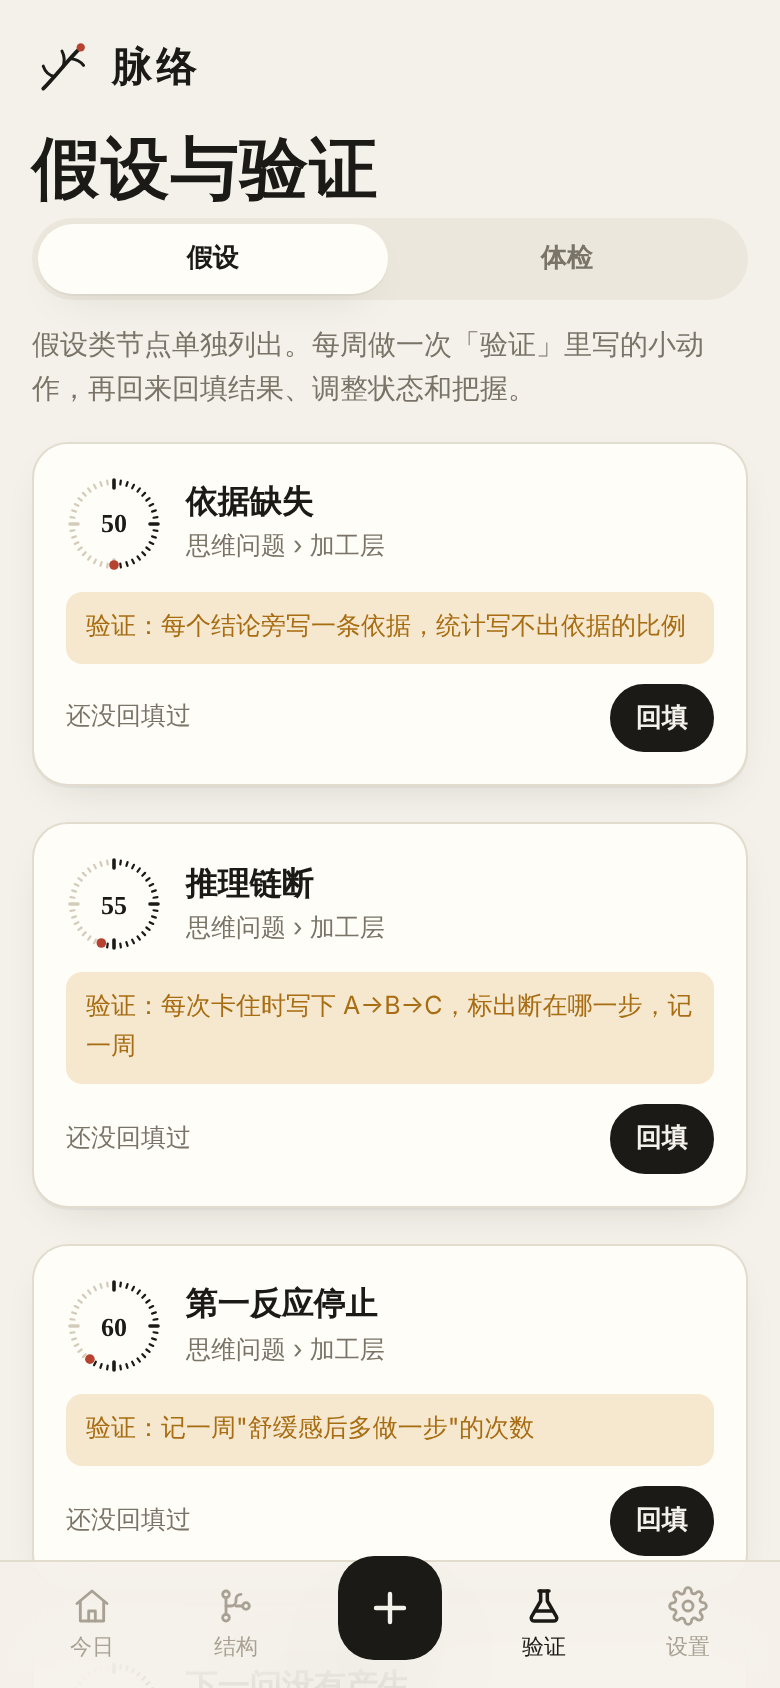
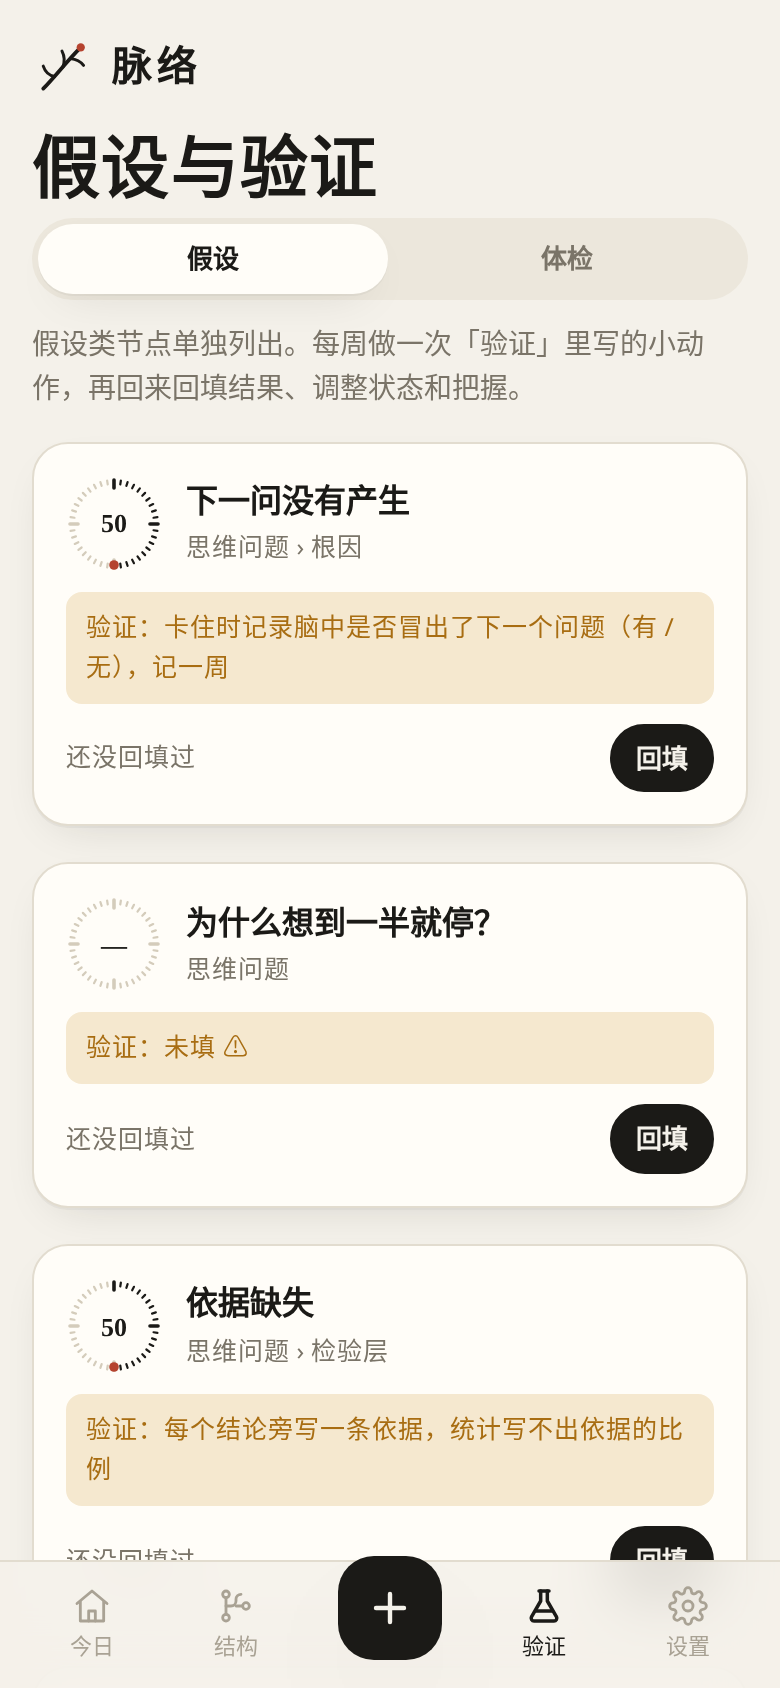
脉络 V2 T01: 用问论规链条替代层级视图

diff --git a/mailuo/www/js/app.js b/mailuo/www/js/app.js
@@ -1,5 +1,5 @@
 import { h, icon, brandMark, veinArt, dial, toast, sheet, confirmSheet, waiting, glyph, nodeRow, relTag, swipeable } from './ui.js';
-import { Store, TYPES, STATUSES, blankNode, normalizeType, normalizeSentinels, REL_TYPES, REL_HINT, REL_VIEW, findDuplicate, findAnalogies, today, parentOf } from './model.js';
+import { Store, TYPES, STATUSES, blankNode, normalizeType, normalizeSentinels, REL_TYPES, REL_HINT, REL_VIEW, findDuplicate, findAnalogies, today, MOUNT_RULES } from './model.js';
 import { openVault, IdbVault, FsVault, CapVault, exportZip, importZip, listSnapshots, snapshot, dailySnapshot, restoreSnapshot } from './vault.js';
 import { getConfig, setConfig, usage, callModel, PROMPT_SPLIT, splitUserMessage, extractJson, normalizeSplit, PROMPT_THINK, parseAnswer, PRESETS, estimateTokens, PROMPT_KEYWORDS, keywordsUserMessage } from './llm.js';
 import { buildPack, MODE_QUESTIONS, libraryTokens, systemOutline } from './pack.js';
@@ -235,7 +235,7 @@ function viewTree(_, params) {
   localStorage.setItem('mailuo.sys', session.sys);
   const out = [topbarBrand(
     h('button', { class: 'iconbtn', onclick: searchSheet, 'aria-label': '搜索全部体系' }, icon('search')),
-    h('button', { class: 'iconbtn', onclick: () => newNodeSheet(session.sys, ''), 'aria-label': '新建节点' }, icon('plus')))];
+    h('button', { class: 'iconbtn', onclick: () => newNodeSheet(session.sys, '', '问'), 'aria-label': '新建节点' }, icon('plus')))];
   out.push(h('h1', { class: 'display' }, '结构'));
   out.push(h('div', { class: 'sys-chips' },
     systems.map((s) => h('button', { class: 'sys-chip' + (s === session.sys ? ' on' : ''), onclick: () => { session.sys = s; route(); } }, s)),
@@ -257,7 +257,7 @@ function viewTree(_, params) {
       } }, icon('copy'), '复制体系大纲')),
     treeBox);
   draw();
-  out.push(h('p', { class: 'small muted center mt2' }, '按住节点左侧的 ⋮⋮ 拖到另一个层级，即可改父级。'));
+  out.push(h('p', { class: 'small muted center mt2' }, '按住 ⋮⋮ 拖到另一张卡片下；拖到「未挂载」可取消挂载。'));
   return out;
 }
 
@@ -269,38 +269,53 @@ function toggleClosed(key) {
 }
 
 function buildTree(system, query) {
-  const sys = store.systems.get(system);
-  const nodes = store.list(system).filter((n) => !query || n.title.includes(query) || n.claim.includes(query) || n.keywords.some((k) => k.includes(query)));
-  const closed = closedSet();
-  const levelBlock = (path, depth) => {
-    const name = path ? path.split('/').at(-1) : system;
-    const children = sys.levels.filter((l) => parentOf(l) === path);
-    const own = nodes.filter((n) => n.parent === path);
-    const count = nodes.filter((n) => n.parent === path || (path && n.parent.startsWith(path + '/'))).length + (path ? 0 : 0);
-    const key = system + ':' + path;
-    const isClosed = !query && closed.has(key);
-    const head = h('div', { class: 'lv-head', 'data-drop': system + '|' + path, onclick: (e) => { if (e.target.closest('.lv-tools')) return; toggleClosed(key); el.classList.toggle('closed'); } },
-      icon('chev', 'chev'), h('span', {}, path ? name : '体系根'), h('span', { class: 'cnt' }, path ? count : own.length),
-      h('div', { class: 'lv-tools' },
-        depth < 3 ? h('button', { class: 'iconbtn', title: '新建子层级', 'aria-label': '新建子层级', onclick: () => newLevelSheet(system, path) }, icon('layers')) : null,
-        h('button', { class: 'iconbtn', title: '在此新建节点', 'aria-label': '在此新建节点', onclick: () => newNodeSheet(system, path) }, icon('plus')),
-        path ? h('button', { class: 'iconbtn', title: '删除层级', 'aria-label': '删除层级', onclick: async () => {
-          if (!(await confirmSheet('删除层级', '删除「' + name + '」及其子层级？（层级下必须没有节点）', '删除', true))) return;
-          try { await store.removeLevel(system, path); route(); } catch (e) { toast(e.message); }
-        } }, icon('trash')) : null));
-    const body = h('div', { class: 'lv-body' },
-      own.map((n) => draggableRow(n)),
-      children.map((c) => levelBlock(c, depth + 1)));
-    if (!own.length && !children.length) body.append(h('div', { class: 'empty-rel' }, '（空）'));
-    const el = h('div', { class: 'lv' + (isClosed ? ' closed' : '') }, head, body);
+  const nodes = store.list(system), closed = closedSet(), seen = new Set();
+  const matches = (n) => !query || [n, ...store.descendants(n.id)].some((x) =>
+    [x.title, x.claim, ...x.keywords].some((t) => t.includes(query)));
+  const branch = (n) => {
+    if (seen.has(n.id) || !matches(n)) return null;
+    seen.add(n.id);
+    const children = store.children(n.id).filter((x) => x.system === system);
+    const key = 'node:' + n.id;
+    const el = h('div', { class: 'chain-node' + (!query && closed.has(key) ? ' closed' : '') });
+    const row = draggableRow(n);
+    if (children.length) row.prepend(h('button', { class: 'iconbtn chain-toggle', 'aria-label': '折叠或展开 ' + n.title, onclick: (e) => {
+      e.stopPropagation(); toggleClosed(key); el.classList.toggle('closed');
+    } }, icon('chev')));
+    if (n.type !== '规') row.append(h('button', { class: 'iconbtn', 'aria-label': '新建下级 ' + n.title, onclick: (e) => {
+      e.stopPropagation(); childNodeSheet(n);
+    } }, icon('plus')));
+    el.append(row);
+    // 折叠只隐藏，仍绘制下级，避免隐藏的节点被当作遗漏节点重新列出。
+    if (children.length) el.append(h('div', { class: 'chain-body' }, children.map(branch)));
     return el;
   };
-  return levelBlock('', 0);
+  const tree = h('div', { class: 'chain-tree' }, store.chainRoots(system).map(branch));
+  const loose = store.unmounted(system).filter((n) => !seen.has(n.id));
+  // 外部导入的跨体系挂载或环也保持可见，交给体检和重新挂载修复。
+  const rest = [...loose, ...nodes.filter((n) => !seen.has(n.id) && !loose.includes(n))];
+  if (rest.length) {
+    const body = h('div', { class: 'chain-loose' }, rest.map(branch));
+    if (body.childElementCount) tree.append(h('h2', { class: 'lv-head', 'data-drop': 'unmount' }, '未挂载 ', h('span', { class: 'cnt' }, rest.filter((n) => !n.under || !store.nodes.has(n.under)).length)), body);
+  }
+  return tree;
+}
+
+function childNodeSheet(n) {
+  const types = TYPES.filter((t) => MOUNT_RULES[t].includes(n.type));
+  if (!types.length) return;
+  sheet('挂一个下级', (box, close) => box.append(h('div', { class: 'btn-row' }, types.map((type) =>
+    h('button', { class: 'btn grow', onclick: () => { close(); newNodeSheet(n.system, n.id, type); } }, '新建' + type)))));
 }
 
 function draggableRow(n) {
-  const grip = h('div', { class: 'grip', 'aria-label': '拖动改父级' }, icon('grip'));
-  const row = nodeRow(n, (e) => { if (!e.target.closest('.grip')) go('#/node/' + n.id); });
+  const grip = h('div', { class: 'grip', 'aria-label': '拖动改挂载' }, icon('grip'));
+  const row = nodeRow(n, (e) => { if (!e.target.closest('button,.grip')) go('#/node/' + n.id); }, n.type === '问' ? h('span') : null);
+  row.dataset.drop = 'node:' + n.id;
+  if (n.type === '规') row.classList.add('rule-row');
+  if (n.type === '规' && n.paused) {
+    row.classList.add('paused'); row.querySelector('.title').append(h('span', { class: 'pill outline' }, '暂停'));
+  }
   row.prepend(grip);
   grip.addEventListener('pointerdown', (e) => startDrag(e, n, row));
   return row;
@@ -323,17 +338,18 @@ function startDrag(e, n, row) {
     if (t !== target) { target?.classList.remove('drop-on'); target = t; target?.classList.add('drop-on'); }
     if (ev.clientY < 60) window.scrollBy(0, -12); else if (ev.clientY > innerHeight - 100) window.scrollBy(0, 12);
   };
-  const up = async () => {
+  const up = async (ev) => {
     window.removeEventListener('pointermove', move);
     window.removeEventListener('pointerup', up);
     window.removeEventListener('pointercancel', up);
     ghost.remove(); row.classList.remove('dragging'); target?.classList.remove('drop-on');
-    if (!target) return;
-    const [sys, path] = target.dataset.drop.split('|');
-    if (sys === n.system && path === n.parent) return;
-    await store.moveNode(n.id, sys, path);
-    toast('已移到「' + (path ? path.split('/').join(' › ') : sys) + '」');
-    route();
+    if (!target || ev.type === 'pointercancel') return;
+    const parent = target.dataset.drop === 'unmount' ? '' : target.dataset.drop.slice(5);
+    const err = store.canMount(n.id, parent);
+    if (err) return toast(err);
+    if (parent === n.under) return;
+    try { await store.mount(n.id, parent); toast(parent ? '已更新挂载' : '已取消挂载'); route(true); }
+    catch (e) { toast(e.message); }
   };
   move(e);
   window.addEventListener('pointermove', move);
@@ -353,28 +369,7 @@ function newSystemSheet() {
   });
 }
 
-function newLevelSheet(system, parent) {
-  sheet(parent ? '在「' + parent.split('/').at(-1) + '」下新建层级' : '新建层级', (box, close) => {
-    const inp = h('input', { class: 'input', placeholder: '例如：加工层' });
-    box.append(h('div', { class: 'field' }, h('label', {}, '层级名称'), inp),
-      h('p', { class: 'small muted' }, '层级最多 3 层。'),
-      h('button', { class: 'btn primary block', onclick: async () => {
-        const name = inp.value.trim().replace(/\//g, '·');
-        if (!name) return;
-        try { await store.addLevel(system, parent ? parent + '/' + name : name); close(); route(); } catch (e) { toast(e.message); }
-      } }, '创建'));
-  });
-}
-
 // ---------------- 节点编辑 ----------------
-function levelOptions(system, cur) {
-  const sys = store.systems.get(system);
-  const sel = h('select', { class: 'input' }, h('option', { value: '' }, '（体系根）'),
-    (sys?.levels || []).map((l) => h('option', { value: l, selected: l === cur }, '　'.repeat(l.split('/').length - 1) + l.split('/').at(-1))));
-  sel.value = cur || '';
-  return sel;
-}
-
 function nodeForm(n, { systemEditable = true } = {}) {
   const f = {};
   f.title = h('input', { class: 'input', value: n.title || '', placeholder: '短名' });
@@ -388,8 +383,7 @@ function nodeForm(n, { systemEditable = true } = {}) {
   f.verify = h('input', { class: 'input', value: n.verify || '', placeholder: '一句话，假设类必填' });
   f.source = h('input', { class: 'input', value: n.source || '', placeholder: '自己 / AI 名称 / 资料' });
   f.system = h('select', { class: 'input', disabled: !systemEditable }, [...store.systems.keys()].map((s) => h('option', { value: s, selected: s === n.system }, s)));
-  const parentWrap = h('div', {}, levelOptions(n.system, n.parent));
-  f.system.addEventListener('change', () => { parentWrap.innerHTML = ''; parentWrap.append(levelOptions(f.system.value, '')); });
+  const parentWrap = h('div', { class: 'small muted' }, '挂在：' + (store.nodes.get(n.under)?.title || '不挂载'));
   const el = h('div', {},
     h('div', { class: 'field' }, h('label', {}, '标题'), f.title),
     h('div', { class: 'field' }, h('label', {}, '结论'), f.claim),
@@ -397,7 +391,7 @@ function nodeForm(n, { systemEditable = true } = {}) {
     h('div', { class: 'field' }, h('label', {}, '激活词'), f.keywords),
     h('div', { class: 'field' }, h('label', {}, '把握 ', confLabel), f.confidence),
     h('div', { class: 'field' }, h('label', {}, '验证方式'), f.verify),
-    h('div', { class: 'row' }, h('div', { class: 'field' }, h('label', {}, '体系'), f.system), h('div', { class: 'field' }, h('label', {}, '上级层级'), parentWrap)),
+    h('div', { class: 'row' }, h('div', { class: 'field' }, h('label', {}, '体系'), f.system), h('div', { class: 'field' }, h('label', {}, '挂载'), parentWrap)),
     h('div', { class: 'field' }, h('label', {}, '说明'), f.note),
     h('div', { class: 'field' }, h('label', {}, '来源'), f.source));
   const read = () => ({
@@ -405,7 +399,7 @@ function nodeForm(n, { systemEditable = true } = {}) {
     type: f.type.value, status: f.status.value,
     keywords: f.keywords.value.split(/[,，、;；\s]+/).map((s) => s.trim()).filter(Boolean).slice(0, 5),
     confidence: +f.confidence.value, verify: f.verify.value.trim(), source: f.source.value.trim(),
-    system: f.system.value, parent: parentWrap.querySelector('select').value,
+    system: f.system.value, parent: n.parent || '', under: n.under || '',
   });
   return { el, read };
 }
@@ -413,14 +407,14 @@ function nodeForm(n, { systemEditable = true } = {}) {
 function validate(d) {
   if (!d.title) return '标题不能为空';
   if (!d.claim) return '结论不能为空';
-  if (d.status === '假设' && !d.verify) return '假设类节点必须写验证方式';
+  if (d.type === '论' && d.status === '假设' && !d.verify) return '假设类节点必须写验证方式';
   return '';
 }
 
-function newNodeSheet(system, parent) {
+function newNodeSheet(system, under = '', type = '论') {
   if (!system) return newSystemSheet();
   sheet('新建节点', (box, close) => {
-    const form = nodeForm({ system, parent, type: '论', status: '假设', confidence: 50, source: '自己' });
+    const form = nodeForm(blankNode({ system, under, type, confidence: type === '问' ? null : 50 }));
     box.append(form.el, h('button', { class: 'btn primary block', onclick: async () => {
       const d = form.read();
       const err = validate(d);

diff --git a/mailuo/www/js/model.js b/mailuo/www/js/model.js
@@ -277,7 +277,7 @@ export class Store {
 
   // ---- 写入 ----
   filePath(n) {
-    return [safeName(n.system), ...(n.parent ? n.parent.split('/').map(safeName) : []), safeName(n.title) + '.md'].join('/');
+    return [safeName(n.system), safeName(n.title) + '.md'].join('/');
   }
 
   async saveNode(n, { touch = true } = {}) {
@@ -289,13 +289,12 @@ export class Store {
     const oldSystem = n._savedSystem;
     const oldPath = n.path;
     let path = this.filePath(n);
+    if (path === safeName(n.system) + "/" + safeName(n.system) + ".md") path = path.replace(/\.md$/, " (" + n.id + ").md");
     // 同名文件（不同节点）时加 id 避免覆盖
     for (const o of this.nodes.values()) if (o.id !== n.id && o.path === path) path = path.replace(/\.md$/, ' (' + n.id + ').md');
     n.path = path;
     this.nodes.set(n.id, n);
     const s = this.ensureSystemSync(n.system);
-    let sysDirty = !(await this.vault.read(s.path));
-    if (n.parent) for (const lv of prefixes(n.parent)) if (!s.levels.includes(lv)) { s.levels.push(lv); sysDirty = true; }
     await this.vault.write(path, serializeNode(n, this));
     n._savedTitle = n.title;
     n._savedSystem = n.system;
@@ -308,9 +307,8 @@ export class Store {
         const src = this.nodes.get(l.from);
         if (src) await this.vault.write(src.path, serializeNode(src, this));
       }
-      sysDirty = true;
     }
-    if (sysDirty || !old) await this.saveSystem(s);
+    await this.saveSystem(s);
     this.emit();
     return n;
   }
@@ -444,19 +442,23 @@ export class Store {
 
   async saveSystem(s) {
     if (!s) return;
-    s.levels = [...new Set(s.levels)];
+    s.levels = [];
     const nodes = this.list(s.name);
     const lines = ['---', 'kind: system', 'name: ' + q(s.name), 'levels: ' + flowList(s.levels), 'created: ' + q(s.created || today()), '---'];
     lines.push(s.desc || '「' + s.name + '」知识体系。由脉络 App 维护，可在 Obsidian 中直接打开。');
     lines.push('', '## 结构');
-    const render = (parent, depth) => {
-      for (const n of nodes.filter((x) => x.parent === parent)) lines.push('  '.repeat(depth) + '- [[' + n.title + ']]');
-      for (const lv of s.levels.filter((l) => parentOf(l) === parent)) {
-        lines.push('  '.repeat(depth) + '- ' + lv.split('/').at(-1));
-        render(lv, depth + 1);
-      }
+    const seen = new Set();
+    const render = (n, depth) => {
+      if (seen.has(n.id)) return;
+      seen.add(n.id);
+      lines.push('  '.repeat(depth) + '- [' + n.type + '] [[' + n.title + ']]');
+      for (const child of this.children(n.id)) if (child.system === s.name) render(child, depth + 1);
     };
-    render('', 0);
+    for (const n of this.chainRoots(s.name)) render(n, 0);
+    if (nodes.some((n) => !seen.has(n.id))) {
+      lines.push('', '## 未挂载');
+      for (const n of nodes) if (!seen.has(n.id)) render(n, 0);
+    }
     s.path = safeName(s.name) + '/' + safeName(s.name) + '.md';
     await this.vault.write(s.path, lines.join('\n') + '\n');
   }

diff --git a/mailuo/www/js/pack.js b/mailuo/www/js/pack.js
@@ -125,20 +125,17 @@ export function libraryTokens(store) {
 
 // 体系大纲（Markdown），方便整体复制到聊天 App
 export function systemOutline(store, system) {
-  const sys = store.systems.get(system);
-  const lines = ['# ' + system];
-  const nodeLine = (n, depth) => {
+  const lines = ['# ' + system], seen = new Set();
+  const walk = (n, depth) => {
+    if (seen.has(n.id)) return;
+    seen.add(n.id);
     const rels = n.links.map((l) => l.type + '→' + (store.nodes.get(l.to)?.title || l.to)).join('，');
-    lines.push('  '.repeat(depth) + '- **' + n.title + '**（' + n.type + '·' + n.status + (n.confidence != null ? '·' + n.confidence + '%' : '') + '）：' + n.claim
+    lines.push('  '.repeat(depth) + '- **[' + n.type + (n.type !== '问' && n.confidence != null ? ' ' + n.confidence + '%' : '') + '] ' + n.title + '**：' + n.claim
       + (n.keywords.length ? ' 〔' + n.keywords.join('、') + '〕' : '') + (rels ? ' ｛' + rels + '｝' : ''));
+    for (const child of store.children(n.id)) if (child.system === system) walk(child, depth + 1);
   };
-  const walk = (parent, depth) => {
-    for (const n of store.list(system).filter((x) => x.parent === parent)) nodeLine(n, depth);
-    for (const lv of (sys?.levels || []).filter((l) => (l.lastIndexOf('/') < 0 ? '' : l.slice(0, l.lastIndexOf('/'))) === parent)) {
-      lines.push('  '.repeat(depth) + '- ' + lv.split('/').at(-1));
-      walk(lv, depth + 1);
-    }
-  };
-  walk('', 0);
+  store.chainRoots(system).forEach((n) => walk(n, 0));
+  const rest = store.list(system).filter((n) => !seen.has(n.id));
+  if (rest.length) { lines.push('', '## 未挂载'); rest.forEach((n) => walk(n, 0)); }
   return lines.join('\n');
 }

diff --git a/mailuo/www/css/app.css b/mailuo/www/css/app.css
@@ -416,3 +416,16 @@ details.manual > .btn.block { width: calc(100% - 32px); }
 .weekly .stat .s { font-size: 11.5px; color: var(--muted); margin-top: 4px; }
 .weekly .stat + .stat { border-left: 1px solid var(--line); }
 .link-cand input[type=radio] { width: 18px; height: 18px; accent-color: var(--ink); flex: none; }
+
+/* V2 挂载链条 */
+.chain-body { margin-left: 0; padding-left: 14px; border-left: 1px solid var(--line-2); }
+.chain-node { min-width: 0; }
+.chain-node.closed > .chain-body { display: none; }
+.chain-node.closed > .node-row .chain-toggle { transform: rotate(-90deg); }
+.chain-toggle { width: 22px; flex-shrink: 0; }
+.chain-tree .node-row { gap: 6px; padding: 10px 4px; }
+.chain-tree .node-row .body { min-width: 0; }
+.chain-tree .node-row .iconbtn { width: 24px; flex-shrink: 0; }
+.rule-row { border-left: 2px solid var(--accent); }
+.paused { opacity: .55; }
+.node-row .title .pill { margin-left: 6px; }
